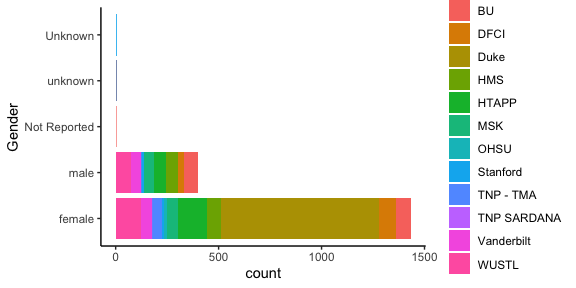
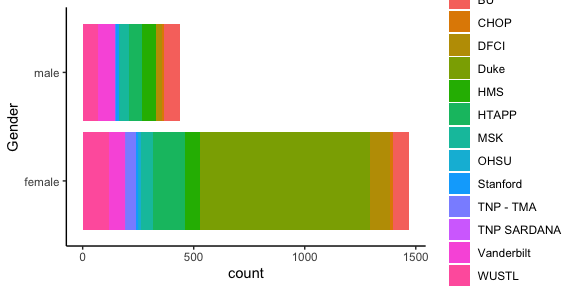
update for consitency with py notebook

diff --git a/HTAN/R Notebooks/Explore_HTAN_Clinical_Biospecimen_Assay_Metadata.md b/HTAN/R Notebooks/Explore_HTAN_Clinical_Biospecimen_Assay_Metadata.md
@@ -70,19 +70,19 @@ Let's look at demographic distributions in HTAN. We begin by constructing an SQL
 sql  <- "select * from `isb-cgc-bq.HTAN_versioned.clinical_tier1_demographics_r4`"
 tb <- bq_project_query(billing, sql)
 demographics <- bq_table_download(tb)
-demographics <- demographics %>% select(-entityId,-Component) %>% distinct()
+demographics <- demographics %>% select(-entityId,-Component, -Manifest_Id, -Manifest_Version, -Id) %>% distinct()
 demographics$HTAN_Center <- gsub("HTAN ","",demographics$HTAN_Center)
 ```
 
 The number of rows of this table is the number of participants for which demographics is reported:
-nrow(demographics)=1950. The list of IDs of all HTAN Participants with demographic annotations is
+nrow(demographics)=1947. The list of unique IDs of all HTAN Participants with demographic annotations is
 
 
 ```r
-participant_list <- demographics$HTAN_Participant_ID 
+participant_list <- unique(demographics$HTAN_Participant_ID)
 ```
 
-There are length(participant_list)=1950 participants with demographic annotations.
+There are length(participant_list)=1938 participants with demographic annotations.
 
 Participants per HTAN center
 
@@ -103,10 +103,10 @@ participant_count_by_center %>% kable()
 |DFCI        | 115|
 |Duke        | 767|
 |HMS         | 130|
-|HTAPP       | 207|
+|HTAPP       | 205|
 |MSK         |  99|
 |OHSU        |  15|
-|Stanford    |  31|
+|Stanford    |  30|
 |TNP - TMA   |  51|
 |TNP SARDANA |   2|
 |Vanderbilt  | 157|
@@ -114,10 +114,10 @@ participant_count_by_center %>% kable()
 
 
 You will see some differences between this table and the case counts on the [HTAN Data Portal]([HTAN](https://data.humantumoratlas.org/)).
-(Some contributing factors: This notebook is fixed to HTAN data Release 2.0 while the portal has additional data;
+(Some contributing factors: This notebook is fixed to HTAN data Release 4.0 while the portal has additional data;
 the portal case inclusion criterion does not correspond to this simple row count.)
 
-The number of columns in the Demographics table, ncol(demographics)=20, is the number of demographic
+The number of columns in the Demographics table, ncol(demographics)=17, is the number of demographic
 attributes. The attributes are
 
 ```r
@@ -126,15 +126,14 @@ colnames(demographics)
 
 ```
 ##  [1] "Age_Is_Obfuscated"         "Days_to_Birth"            
-##  [3] "Id"                        "Occupation_Duration_Years"
-##  [5] "Year_of_Death"             "Gender"                   
-##  [7] "Vital_Status"              "Race"                     
-##  [9] "Premature_At_Birth"        "Cause_of_Death_Source"    
-## [11] "HTAN_Participant_ID"       "Weeks_Gestation_at_Birth" 
-## [13] "Days_to_Death"             "Cause_of_Death"           
-## [15] "Year_Of_Birth"             "Country_of_Residence"     
-## [17] "Ethnicity"                 "HTAN_Center"              
-## [19] "Manifest_Id"               "Manifest_Version"
+##  [3] "Occupation_Duration_Years" "Year_of_Death"            
+##  [5] "Gender"                    "Vital_Status"             
+##  [7] "Race"                      "Premature_At_Birth"       
+##  [9] "Cause_of_Death_Source"     "HTAN_Participant_ID"      
+## [11] "Weeks_Gestation_at_Birth"  "Days_to_Death"            
+## [13] "Cause_of_Death"            "Year_Of_Birth"            
+## [15] "Country_of_Residence"      "Ethnicity"                
+## [17] "HTAN_Center"
 ```
 These are the attributes of the HTAN [Clinical Tier 1 Demographics Data Model](https://data.humantumoratlas.org/standard/clinical),
 along with a few general attributes.
@@ -158,8 +157,8 @@ demographics_race_reported %>%
 |:-------------------------|----:|-------:|
 |Other                     |    9|     0.5|
 |asian                     |   35|     2.0|
-|black or african american |  295|    16.8|
-|white                     | 1421|    80.7|
+|black or african american |  294|    16.7|
+|white                     | 1419|    80.8|
 
 Here is a barchart showing the distribution
 
@@ -176,23 +175,20 @@ Similarly, here's a barchart showing the breakdown by Gender.
 
 
 ```r
-demographics_gender_reported <- demographics %>% filter(Race != "Not Reported") 
+demographics_gender_reported <- demographics %>% filter(!Gender %in% c('Not Reported','unknown','Unknown')) %>% select(HTAN_Participant_ID,Gender,HTAN_Center) %>% distinct()
 demographics_gender_reported %>%
         group_by(Gender) %>%
         tally() %>%
-        mutate(Percent=round(100*n/nrow(demographics),1)) %>%
+        mutate(Percent=round(100*n/nrow(demographics_gender_reported),1)) %>%
         kable()
 ```
 
 
 
-|Gender       |    n| Percent|
-|:------------|----:|-------:|
-|Not Reported |    3|     0.2|
-|Unknown      |    4|     0.2|
-|female       | 1434|    73.5|
-|male         |  402|    20.6|
-|unknown      |    5|     0.3|
+|Gender |    n| Percent|
+|:------|----:|-------:|
+|female | 1471|    77.1|
+|male   |  437|    22.9|
 
 
 ```r
@@ -213,7 +209,7 @@ Let's take a look at annotated treatment in HTAN. This can be found in the Thera
 sql  <- "select * from `isb-cgc-bq.HTAN_versioned.clinical_tier1_therapy_r4`"
 tb <- bq_project_query(billing, sql)
 therapy <- bq_table_download(tb)
-therapy <- therapy %>% select(-entityId,-Component) %>% distinct()
+therapy <- therapy %>% select(-entityId,-Component, -Manifest_Id, -Manifest_Version, -Id) %>% distinct()
 therapy$HTAN_Center <- gsub("HTAN ","",therapy$HTAN_Center)
 ```
 
@@ -222,10 +218,11 @@ Now filter this table to retrieve instances of annotated therapy.
 
 ```r
 therapy_yes <- therapy %>%
-    filter((Treatment_or_Therapy == "Yes" | !is.na(.$Treatment_Type)) & Treatment_Type != "Not Reported" & Treatment_Type != "None")
+    filter((Treatment_or_Therapy == "Yes" | !is.na(.$Treatment_Type) )
+& !Treatment_Type %in% c("Not Reported","None","unknown","Not Reported,"))
 ```
 
-These are 823 in number, for 419 participants.
+These are 790 in number, for 387 participants.
 
 
 By center and treatment type:
@@ -241,8 +238,8 @@ therapy_yes %>%
 
 |HTAN_Center |Treatment_Type                         |   n|
 |:-----------|:--------------------------------------|---:|
-|Vanderbilt  |Not Reported,                          | 147|
 |MSK         |Chemotherapy                           | 117|
+|HTAPP       |NA                                     | 115|
 |HMS         |Chemotherapy                           |  68|
 |MSK         |Surgery                                |  67|
 |WUSTL       |Chemotherapy                           |  60|
@@ -277,7 +274,6 @@ therapy_yes %>%
 |HTAPP       |Radiation Therapy NOS                  |   1|
 |HTAPP       |Stereotactic Radiosurgery              |   1|
 |MSK         |Radiation Cyberknife                   |   1|
-|MSK         |unknown                                |   1|
 |TNP SARDANA |Chemotherapy                           |   1|
 
 
@@ -291,7 +287,7 @@ and all annotated values can be obtained in a single BigQuery table.
 sql <- "SELECT * FROM `isb-cgc-bq.HTAN_versioned.biospecimen_r4`"
 tb <- bq_project_query(billing, sql)
 biospecimen <- bq_table_download(tb)
-biospecimen <- biospecimen %>% select(-entityId,-Component) 
+biospecimen <- biospecimen %>% select(-entityId,-Component,-Manifest_Id, -Manifest_Version, -Id) 
 biospecimen <- mutate(biospecimen,HTAN_Participant_ID=unlist(map(HTAN_Biospecimen_ID,participant_from_other_htan_id)))
 ```
 Number of unique biospecimens : 7568, from 1722 participants.
@@ -302,7 +298,7 @@ As an example, let's take a look at the various storage methods used for HTAN bi
 ### 5.1 Storage Methods
 
 ```r
-biospecimen_storage_noted <- biospecimen %>% filter(Storage_Method != "unknown" & Storage_Method != "Unknown")
+biospecimen_storage_noted <- biospecimen %>% filter(Storage_Method != "unknown" & Storage_Method != "Unknown" & Storage_Method != "Not Applicable")
 table(biospecimen_storage_noted$Storage_Method,biospecimen_storage_noted$HTAN_Center) %>% kable()
 ```
 
@@ -316,7 +312,6 @@ table(biospecimen_storage_noted$Storage_Method,biospecimen_storage_noted$HTAN_Ce
 |Frozen at -80C            |     506|         0|        10|         0|      222|        297|        0|        43|             0|              0|                0|              51|        584|
 |Frozen in liquid nitrogen |       0|        34|         0|         0|        0|         66|        8|         0|           233|              0|                0|               0|         14|
 |Frozen in vapor phase     |       0|         0|         0|         0|        0|         41|        0|        14|             0|              0|                0|               0|          0|
-|Not Applicable            |       0|         0|         5|         0|        0|          0|        0|         0|             0|              0|                0|               0|          0|
 |Paraffin block            |       0|         0|         0|      1229|        0|        125|       37|         0|             0|              0|                0|               1|          0|
 |Refrigerated at 4 degrees |       0|         0|         0|         0|      477|          0|        0|         2|             0|           1432|               73|               0|          2|
 
